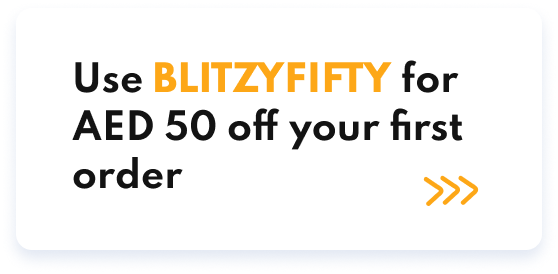
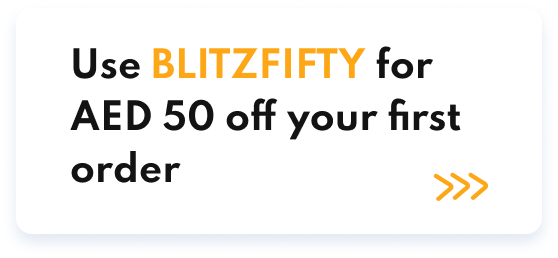
HY-484 FE Update home screen layout (#180)
* HY-484 FE Update home screen layout
- adjusted banners
- adjusted categories tabs
- moved header up

* HY-484 FE Update home screen layout
- adjusted header styles

diff --git a/src/screens/Home/styles.ts b/src/screens/Home/styles.ts
@@ -16,8 +16,8 @@ const useStyles = (theme: ProjectThemeType) => StyleSheet.create({
   },
   header: {
     paddingHorizontal: theme.spaces.xl,
-    paddingTop: Platform.OS === 'ios' ? 60 : 20,
-    paddingBottom: 44,
+    paddingTop: Platform.OS === 'ios' ? 45 : 20,
+    paddingBottom: 31,
   },
   headerImage: {
 
@@ -44,7 +44,7 @@ const useStyles = (theme: ProjectThemeType) => StyleSheet.create({
     marginTop: 5,
   },
   openHours: {
-    marginTop: 10,
+    marginTop: 8,
     marginBottom: 5,
   },
   openHoursText: {
@@ -54,7 +54,7 @@ const useStyles = (theme: ProjectThemeType) => StyleSheet.create({
     color: '#eee',
   },
   homeCarousel: {
-    marginTop: -27,
+    marginTop: -18,
   },
 });
 export default useStyles;

diff --git a/src/components/HomeCarousel/styles.ts b/src/components/HomeCarousel/styles.ts
@@ -5,7 +5,7 @@ const useStyles = () => StyleSheet.create({
     alignItems: 'center',
   },
   paginationContainer: {
-    paddingTop: 16,
+    paddingTop: 10,
   },
   carouselItem: {
     display: 'flex',
@@ -22,6 +22,7 @@ const useStyles = () => StyleSheet.create({
   imageBanner: {
     width: 260,
     height: 120,
+    resizeMode: 'contain',
   },
 });
 export default useStyles;

diff --git a/src/components/CategoryItem/styles.ts b/src/components/CategoryItem/styles.ts
@@ -3,8 +3,8 @@ import { StyleSheet } from 'react-native';
 const useStyles = () => StyleSheet.create({
   container: {
     width: '33.33%',
-    paddingRight: 14,
-    marginBottom: 28,
+    paddingRight: 10,
+    marginBottom: 18,
   },
   contentBox: {
     aspectRatio: 1,

diff --git a/src/components/CategoriesViewer/styles.ts b/src/components/CategoriesViewer/styles.ts
@@ -5,8 +5,8 @@ const useStyles = () => StyleSheet.create({
     display: 'flex',
     flexDirection: 'row',
     flexWrap: 'wrap',
-    paddingLeft: 24,
-    paddingRight: 10,
+    paddingLeft: 14,
+    paddingRight: 5,
   },
   emptyListBox: {
     marginVertical: 40,
